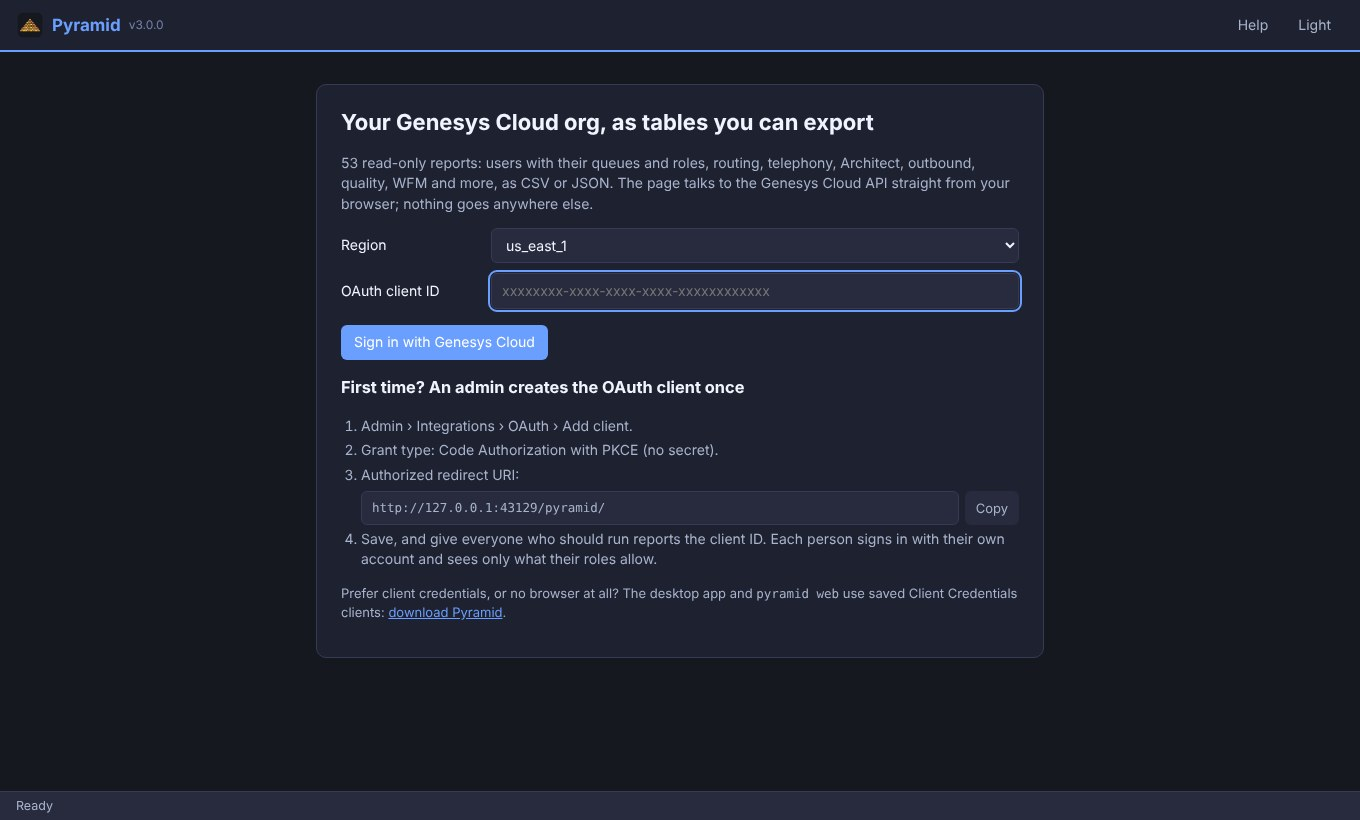
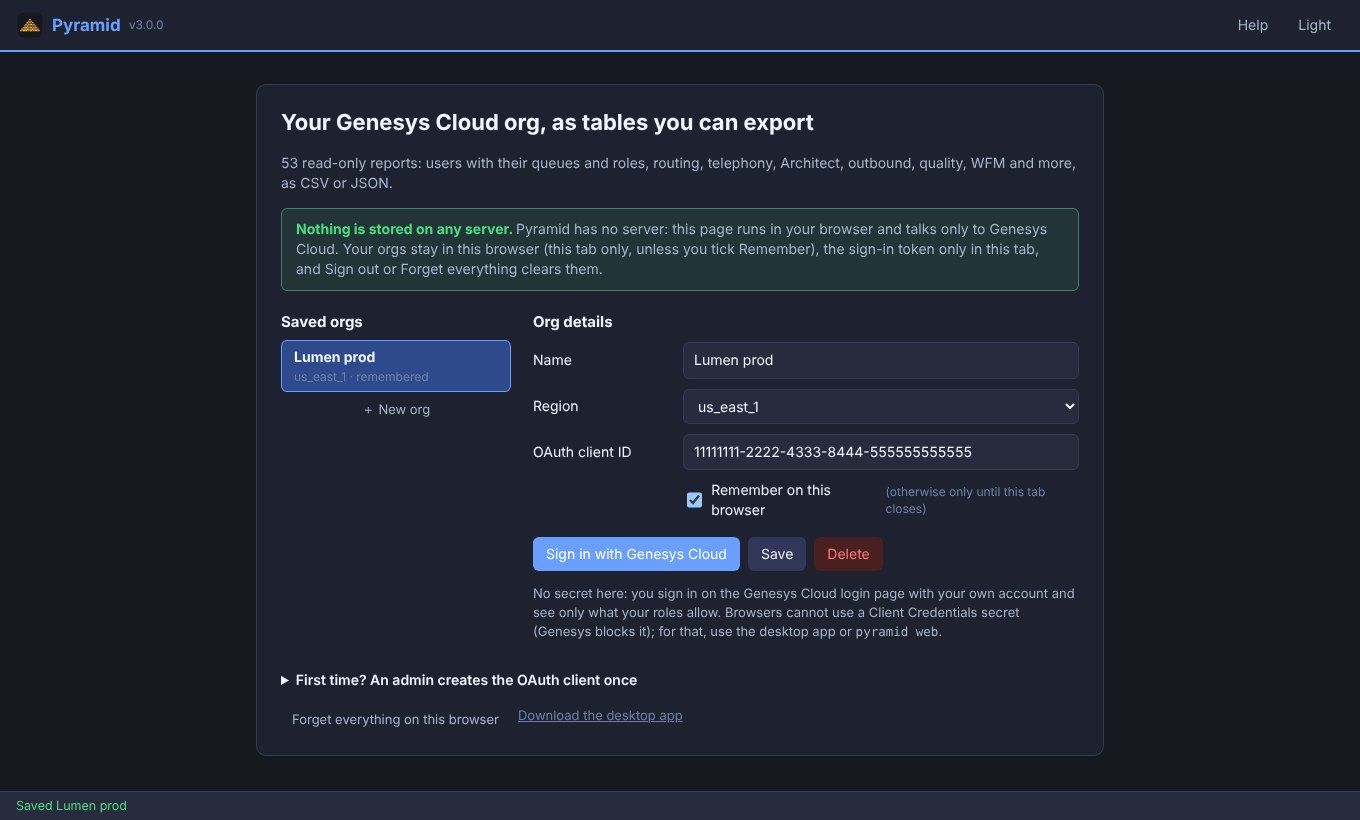
Web: saved orgs like the desktop OAuth tab, nothing stored on any server
The hosted page now keeps a list of orgs (name, region, client ID) as the
desktop app does. They live in the tab's sessionStorage, or in
localStorage only when "Remember on this browser" is ticked; the token
stays in the tab. A notice says nothing is stored on any server, and
"Forget everything on this browser" clears it all. Form errors no longer
reset what was typed. The earlier silent localStorage of region and client
ID is dropped. Sign-in stays OAuth PKCE: browsers cannot use a Client
Credentials secret (the Genesys SDK refuses it there and the token endpoint
does not allow it); the desktop app and pyramid web cover that case.

Claude-Session: https://claude.ai/code/session_01LcmSuwQ1xCxLAacR35Fjvh

Changed region(s): [[0.1853, 0.122, 0.8029, 0.7927], [0.2162, 0.8232, 0.4941, 0.8841], [0.0, 0.9756, 0.0926, 1.0]]

diff --git a/src/pyramid/web/app.js b/src/pyramid/web/app.js
@@ -100,7 +100,7 @@ async function init() {
   if (!pageIsLocal) store.set("sessionStorage", "devBase", null);
   if (q.has("code") || q.has("error")) return finishPkce(q);
   const tok = token();
-  if (tok) return connectHosted(tok.region);
+  if (tok) return connectHosted(tok.region, tok.name);
   showConnectHosted();
 }
 
@@ -116,50 +116,150 @@ function token() {
   } catch { return null; }
 }
 
-// ── hosted sign-in (PKCE) ─────────────────────────────────────────────────
-function showConnectHosted(error) {
-  const region = store.get("localStorage", "region") || "us_east_1";
-  const clientId = store.get("localStorage", "clientId") || "";
-  const sel = h("select", { id: "f-region" }, Object.keys(API_HOSTS).map((r) => h("option", { value: r, selected: r === region }, r)));
-  const cid = h("input", { id: "f-client", value: clientId, placeholder: "xxxxxxxx-xxxx-xxxx-xxxx-xxxxxxxxxxxx", autocomplete: "off", spellcheck: "false" });
+// ── hosted sign-in: saved orgs (like the desktop OAuth tab) + PKCE ────────
+// Nothing leaves this browser except the sign-in itself, which goes to Genesys.
+// Orgs (name, region, client ID) live in sessionStorage, or in localStorage
+// when "Remember on this browser" is ticked; the token only in sessionStorage.
+const ORGS = "orgs";
+
+function readOrgs(area) {
+  try { return JSON.parse(store.get(area, ORGS) || "[]").filter((o) => o && o.name && o.region && o.clientId); }
+  catch { return []; }
+}
+
+function loadOrgs() {
+  const byName = new Map();
+  for (const o of readOrgs("localStorage")) byName.set(o.name, { ...o, remember: true });
+  for (const o of readOrgs("sessionStorage")) byName.set(o.name, { ...o, remember: false });
+  return [...byName.values()].sort((a, b) => a.name.toLowerCase().localeCompare(b.name.toLowerCase()));
+}
+
+function saveOrgs(orgs) {
+  const pick = (list) => list.map(({ name, region, clientId }) => ({ name, region, clientId }));
+  const local = pick(orgs.filter((o) => o.remember)), session = pick(orgs.filter((o) => !o.remember));
+  store.set("localStorage", ORGS, local.length ? JSON.stringify(local) : null);
+  store.set("sessionStorage", ORGS, session.length ? JSON.stringify(session) : null);
+}
+
+function forgetEverything() {
+  for (const area of ["localStorage", "sessionStorage"]) {
+    try {
+      const keys = [];
+      for (let i = 0; i < window[area].length; i++) if (window[area].key(i).startsWith("pyramid.")) keys.push(window[area].key(i));
+      keys.forEach((k) => window[area].removeItem(k));
+    } catch { /* storage blocked: nothing to forget */ }
+  }
+  applyTheme(null);
+}
+
+function showConnectHosted(error, selectName) {
+  // an earlier version kept the last region and client ID silently: drop them
+  store.set("localStorage", "region", null);
+  store.set("localStorage", "clientId", null);
+  const orgs = loadOrgs();
+  let current = orgs.find((o) => o.name === selectName) || orgs[0] || null;
+
+  const name = h("input", { id: "f-name", placeholder: "e.g. Prod, Lab, Customer X", autocomplete: "off", maxlength: "60" });
+  const sel = h("select", { id: "f-region" }, Object.keys(API_HOSTS).map((r) => h("option", { value: r }, r)));
+  const cid = h("input", { id: "f-client", placeholder: "xxxxxxxx-xxxx-xxxx-xxxx-xxxxxxxxxxxx", autocomplete: "off", spellcheck: "false" });
+  const remember = h("input", { id: "f-remember", type: "checkbox" });
+  const del = h("button", { class: "danger", type: "button" }, "Delete");
+  const list = h("div", { class: "orglist", role: "listbox", "aria-label": "Saved orgs" });
+  const formError = h("div", { class: "error", hidden: true, role: "alert" });
+
+  function fill(o) {
+    current = o;
+    name.value = o?.name || "";
+    sel.value = o?.region || "us_east_1";
+    cid.value = o?.clientId || "";
+    remember.checked = !!o?.remember;
+    del.hidden = !o;
+    for (const b of list.querySelectorAll("button[data-name]")) b.classList.toggle("active", b.dataset.name === o?.name);
+  }
+  function renderList() {
+    const items = loadOrgs().map((o) => h("button", { type: "button", "data-name": o.name, role: "option", onclick: () => fill(o) },
+      h("b", {}, o.name), h("small", {}, `${o.region}${o.remember ? "  ·  remembered" : "  ·  this tab only"}`)));
+    list.replaceChildren(...(items.length ? items : [h("p", { class: "note" }, "No saved orgs yet.")]),
+      h("button", { type: "button", class: "ghost small", onclick: () => { fill(null); name.focus(); } }, "＋ New org"));
+  }
+  function formOrg() {
+    const o = { name: name.value.trim(), region: sel.value, clientId: cid.value.trim(), remember: remember.checked };
+    const problem = !o.name ? "Give the org a name (any label you like)."
+      : !/^[0-9a-f]{8}-[0-9a-f]{4}-[0-9a-f]{4}-[0-9a-f]{4}-[0-9a-f]{12}$/i.test(o.clientId)
+        ? "The client ID should look like xxxxxxxx-xxxx-xxxx-xxxx-xxxxxxxxxxxx." : "";
+    formError.textContent = problem;
+    formError.hidden = !problem;
+    return problem ? null : o;
+  }
+  function save(o) {
+    const all = loadOrgs().filter((x) => x.name !== o.name && x.name !== current?.name);
+    all.push(o);
+    saveOrgs(all);
+  }
+  const go = h("button", { class: "accent", type: "button", onclick: () => { const o = formOrg(); if (o) { save(o); startPkce(o); } } }, "Sign in with Genesys Cloud");
+  const keep = h("button", { type: "button", onclick: () => { const o = formOrg(); if (o) { save(o); renderList(); fill(o); status(`Saved ${o.name}`, "ok"); } } }, "Save");
+  del.onclick = () => {
+    if (!current || !confirm(`Remove ${current.name} from this browser?`)) return;
+    saveOrgs(loadOrgs().filter((x) => x.name !== current.name));
+    renderList();
+    fill(loadOrgs()[0] || null);
+  };
+  const forget = h("button", { type: "button", class: "ghost small", onclick: () => {
+    if (!confirm("Remove every org, setting and token Pyramid keeps in this browser?")) return;
+    forgetEverything();
+    showConnectHosted();
+    status("Everything Pyramid kept in this browser was removed", "ok");
+  } }, "Forget everything on this browser");
+  for (const el of [name, cid]) el.addEventListener("keydown", (e) => { if (e.key === "Enter") go.click(); });
+
   const redirect = h("input", { value: redirectUri(), readonly: true });
   const copy = h("button", { type: "button", class: "small", onclick: () => navigator.clipboard?.writeText(redirect.value).then(() => status("Redirect URI copied", "ok")) }, "Copy");
-  const go = h("button", { class: "accent", type: "button", onclick: () => startPkce(sel.value, cid.value.trim()) }, "Sign in with Genesys Cloud");
-  cid.addEventListener("keydown", (e) => { if (e.key === "Enter") go.click(); });
   const box = $("connect");
   box.replaceChildren(h("div", { class: "card" },
     h("h1", {}, "Your Genesys Cloud org, as tables you can export"),
-    h("p", {}, `${S.catalog.endpoints.length} read-only reports: users with their queues and roles, routing, telephony, Architect, outbound, quality, WFM and more, as CSV or JSON. The page talks to the Genesys Cloud API straight from your browser; nothing goes anywhere else.`),
-    h("div", { class: "form-row" }, h("label", { for: "f-region" }, "Region"), sel),
-    h("div", { class: "form-row" }, h("label", { for: "f-client" }, "OAuth client ID"), cid),
-    h("div", { class: "form-actions" }, go),
+    h("p", {}, `${S.catalog.endpoints.length} read-only reports: users with their queues and roles, routing, telephony, Architect, outbound, quality, WFM and more, as CSV or JSON.`),
+    h("div", { class: "privacy" },
+      h("b", {}, "Nothing is stored on any server. "),
+      "Pyramid has no server: this page runs in your browser and talks only to Genesys Cloud. Your orgs stay in this browser (this tab only, unless you tick Remember), the sign-in token only in this tab, and Sign out or Forget everything clears them."),
     error ? h("div", { class: "error" }, error) : null,
-    h("h3", {}, "First time? An admin creates the OAuth client once"),
-    h("ol", { class: "steps" },
-      h("li", {}, "Admin › Integrations › OAuth › Add client."),
-      h("li", {}, "Grant type: Code Authorization with PKCE (no secret)."),
-      h("li", {}, "Authorized redirect URI:", h("div", { class: "copy-field" }, redirect, copy)),
-      h("li", {}, "Save, and give everyone who should run reports the client ID. Each person signs in with their own account and sees only what their roles allow.")),
-    h("p", { class: "note" }, "Prefer client credentials, or no browser at all? The desktop app and ", h("code", {}, "pyramid web"),
-      " use saved Client Credentials clients: ", h("a", { href: "https://github.com/igtoth/pyramid/releases/latest" }, "download Pyramid"), "."),
+    h("div", { class: "connect-grid" },
+      h("div", {}, h("h3", {}, "Saved orgs"), list),
+      h("div", {},
+        h("h3", {}, "Org details"),
+        h("div", { class: "form-row" }, h("label", { for: "f-name" }, "Name"), name),
+        h("div", { class: "form-row" }, h("label", { for: "f-region" }, "Region"), sel),
+        h("div", { class: "form-row" }, h("label", { for: "f-client" }, "OAuth client ID"), cid),
+        h("div", { class: "form-row" }, h("span", {}),
+          h("label", { class: "check" }, remember, " Remember on this browser ", h("small", {}, "(otherwise only until this tab closes)"))),
+        formError,
+        h("div", { class: "form-actions" }, go, keep, del),
+        h("p", { class: "note" }, "No secret here: you sign in on the Genesys Cloud login page with your own account and see only what your roles allow. Browsers cannot use a Client Credentials secret (Genesys blocks it); for that, use the desktop app or ", h("code", {}, "pyramid web"), "."))),
+    h("details", { class: "admin" },
+      h("summary", {}, "First time? An admin creates the OAuth client once"),
+      h("ol", { class: "steps" },
+        h("li", {}, "Admin › Integrations › OAuth › Add client."),
+        h("li", {}, "Grant type: Code Authorization with PKCE (no secret)."),
+        h("li", {}, "Authorized redirect URI:", h("div", { class: "copy-field" }, redirect, copy)),
+        h("li", {}, "Save, and share the client ID with the people who should run reports."))),
+    h("div", { class: "form-actions" }, forget,
+      h("a", { class: "note", href: "https://github.com/igtoth/pyramid/releases/latest" }, "Download the desktop app")),
   ));
+  renderList();
+  fill(current);
   box.hidden = false;
   $("workspace").hidden = true;
-  cid.focus();
+  (current ? cid : name).focus();
 }
 
-async function startPkce(region, clientId) {
-  if (!/^[0-9a-f-]{36}$/i.test(clientId)) return showConnectHosted("The client ID should look like xxxxxxxx-xxxx-xxxx-xxxx-xxxxxxxxxxxx.");
-  store.set("localStorage", "region", region);
-  store.set("localStorage", "clientId", clientId);
+async function startPkce(org) {
   const verifier = pkceVerifier(64);
   const state = pkceVerifier(16);
-  store.set("sessionStorage", "pkce", JSON.stringify({ verifier, state, region, clientId }));
+  store.set("sessionStorage", "pkce", JSON.stringify({ verifier, state, region: org.region, clientId: org.clientId, name: org.name }));
   const q = new URLSearchParams({
-    client_id: clientId, redirect_uri: redirectUri(), response_type: "code",
+    client_id: org.clientId, redirect_uri: redirectUri(), response_type: "code",
     code_challenge: await pkceChallenge(verifier), code_challenge_method: "S256", state,
   });
-  location.assign(`${loginBase(region)}/oauth/authorize?${q}`);
+  location.assign(`${loginBase(org.region)}/oauth/authorize?${q}`);
 }
 
 async function finishPkce(q) {
@@ -167,8 +267,8 @@ async function finishPkce(q) {
   let pk = null;
   try { pk = JSON.parse(store.get("sessionStorage", "pkce") || "null"); } catch { /* ignore */ }
   store.set("sessionStorage", "pkce", null);
-  if (q.get("error")) return showConnectHosted(`Sign-in failed: ${q.get("error_description") || q.get("error")}`);
-  if (!pk || pk.state !== q.get("state")) return showConnectHosted("Sign-in could not be verified (state mismatch). Try again.");
+  if (q.get("error")) return showConnectHosted(`Sign-in failed: ${q.get("error_description") || q.get("error")}`, pk?.name);
+  if (!pk || pk.state !== q.get("state")) return showConnectHosted("Sign-in could not be verified (state mismatch). Try again.", pk?.name);
   status("Signing in...", "busy");
   try {
     const resp = await fetch(`${loginBase(pk.region)}/oauth/token`, {
@@ -178,16 +278,17 @@ async function finishPkce(q) {
     });
     const body = await resp.json().catch(() => ({}));
     if (!resp.ok || !body.access_token) throw new Error(body.error_description || body.error || `HTTP ${resp.status}`);
-    store.set("sessionStorage", "token", JSON.stringify({ accessToken: body.access_token, region: pk.region,
+    store.set("sessionStorage", "token", JSON.stringify({ accessToken: body.access_token, region: pk.region, name: pk.name,
       expiresAt: Date.now() + (body.expires_in || 3600) * 1000 }));
-    connectHosted(pk.region);
+    connectHosted(pk.region, pk.name);
   } catch (e) {
-    showConnectHosted(`Sign-in failed: ${e.message}. Check that the OAuth client uses the PKCE grant and that the redirect URI matches exactly.`);
+    showConnectHosted(`Sign-in failed: ${e.message}. Check that the OAuth client uses the PKCE grant and that the redirect URI matches exactly.`, pk.name);
   }
 }
 
-function connectHosted(region) {
+function connectHosted(region, name = "") {
   S.region = region;
+  S.clientName = name || "";
   S.api = new Api({
     base: apiHost(region),
     headers: () => ({ Authorization: "Bearer " + (token()?.accessToken || "") }),
@@ -204,7 +305,7 @@ function signOut() {
   closeAllTabs(false);
   $("org").hidden = true;
   $("btn-signout").hidden = true;
-  showConnectHosted();
+  showConnectHosted(null, S.clientName);
 }
 
 // ── local mode (pyramid web) ──────────────────────────────────────────────
@@ -254,7 +355,7 @@ async function openWorkspace() {
     S.orgName = S.clientName || "";
   }
   const org = $("org");
-  org.textContent = `● ${S.orgName}${S.mode === "local" ? `  ·  ${S.clientName}` : ""}  ·  ${S.region}`;
+  org.textContent = `● ${S.orgName}${S.clientName && S.clientName !== S.orgName ? `  ·  ${S.clientName}` : ""}  ·  ${S.region}`;
   org.hidden = false;
   select(null);
 }

diff --git a/src/pyramid/web/app.css b/src/pyramid/web/app.css
@@ -67,6 +67,21 @@ code, .mono { font-family: var(--mono); font-size: 12.5px; }
 .copy-field input { flex: 1; font-family: var(--mono); font-size: 12.5px; }
 .error { color: var(--danger); background: var(--danger-bg); border-radius: var(--radius); padding: 8px 12px; margin-top: 12px; }
 
+.privacy { background: color-mix(in srgb, var(--success) 10%, var(--surface)); border: 1px solid color-mix(in srgb, var(--success) 45%, var(--border));
+           border-radius: var(--radius); padding: 10px 14px; color: var(--fg2); margin: 12px 0 4px; }
+.privacy b { color: var(--success); }
+.connect-grid { display: grid; grid-template-columns: 230px 1fr; gap: 22px; margin-top: 8px; }
+.connect-grid h3 { margin: 12px 0 8px; font-size: 15px; }
+.orglist { display: flex; flex-direction: column; gap: 4px; }
+.orglist button[data-name] { text-align: left; display: flex; flex-direction: column; background: var(--raised); border: 1px solid var(--border); }
+.orglist button[data-name].active { border-color: var(--accent); background: var(--accent-dim); }
+.orglist small, .check small { color: var(--muted); font-size: 12px; }
+.check { display: flex; align-items: center; gap: 6px; cursor: pointer; }
+.check input { width: 16px; height: 16px; }
+details.admin { margin-top: 16px; color: var(--fg2); }
+details.admin summary { cursor: pointer; font-weight: 600; color: var(--fg); }
+.connect { max-width: 880px; }
+
 /* sub-tabs */
 .subtabs { display: flex; gap: 3px; padding: 6px 10px 0; overflow-x: auto; border-bottom: 2px solid var(--accent); background: var(--bg); flex-shrink: 0; }
 .tab { display: flex; align-items: center; gap: 2px; background: var(--raised); color: var(--fg2); border: 1px solid var(--border); border-bottom: none;
@@ -131,6 +146,7 @@ dialog::backdrop { background: rgb(0 0 0 / .45); }
   .topbar { gap: 8px; padding: 8px 12px; }
   .org { display: none; }
   .form-row { grid-template-columns: 1fr; gap: 4px; }
+  .connect-grid { grid-template-columns: 1fr; gap: 8px; }
   .rhead .actions { margin-left: 0; }
   .searchbar .hint { display: none; }
   .tablewrap { margin: 0 8px 8px; }

diff --git a/scripts/web_check.py b/scripts/web_check.py
@@ -132,10 +132,19 @@ with sync_playwright() as p:
     watch(page)
     page.goto(site_url + f"?api={fake_url}")
     expect(page.locator("#connect h1")).to_be_visible()
-    page.screenshot(path=str(OUT / "pyramid-web-signin-dark.jpg"), quality=88)
+    expect(page.locator(".privacy")).to_contain_text("Nothing is stored on any server")
+    page.fill("#f-name", "Lumen prod")
+    page.fill("#f-client", "not-an-id")
+    page.get_by_role("button", name="Sign in with Genesys Cloud").click()
+    expect(page.locator("[role=alert]")).to_contain_text("client ID should look like")
+    assert page.input_value("#f-name") == "Lumen prod"  # what was typed survives the error
     page.fill("#f-client", fg.CLIENT_ID)
     page.get_by_role("button", name="Sign in with Genesys Cloud").click()
     expect(page.locator("#org")).to_contain_text("Lumen Harbor Telecom", timeout=15000)
+    expect(page.locator("#org")).to_contain_text("Lumen prod")
+    # not remembered: the org lives in this tab's sessionStorage only
+    assert page.evaluate("localStorage.getItem('pyramid.orgs')") is None
+    assert "Lumen prod" in page.evaluate("sessionStorage.getItem('pyramid.orgs')")
     open_report(page, "IVR Configurations")
     open_report_tab = page.locator(".subtabs .tab", has_text="Reports")
     open_report_tab.click()
@@ -147,7 +156,18 @@ with sync_playwright() as p:
     page.set_viewport_size({"width": 390, "height": 800})
     wide = page.evaluate("document.documentElement.scrollWidth > window.innerWidth + 1")
     assert not wide, "page scrolls sideways at phone width"
-    print("hosted mode: PKCE sign-in and reports OK", flush=True)
+    # sign out: the saved org is offered again; remember it; forget everything
+    page.set_viewport_size({"width": 1360, "height": 820})
+    page.locator("#btn-signout").click()
+    expect(page.locator(".orglist button[data-name]")).to_have_count(1)
+    page.check("#f-remember")
+    page.get_by_role("button", name="Save").click()
+    assert "Lumen prod" in page.evaluate("localStorage.getItem('pyramid.orgs')")
+    page.screenshot(path=str(OUT / "pyramid-web-signin-dark.jpg"), quality=88)
+    page.on("dialog", lambda d: d.accept())
+    page.get_by_role("button", name="Forget everything on this browser").click()
+    assert page.evaluate("Object.keys(localStorage).concat(Object.keys(sessionStorage)).filter(k => k.startsWith('pyramid.'))") == []
+    print("hosted mode: saved orgs, PKCE sign-in and reports OK", flush=True)
     ss.shutdown()
     browser.close()
 

diff --git a/docs/web.md b/docs/web.md
@@ -23,11 +23,24 @@ signs in to Genesys Cloud and calls the API itself.
 
 ### Sign in
 
-Open the page, pick the org's region, paste the client ID, **Sign in with
-Genesys Cloud**. The page sends you to the Genesys login, you come back
-signed in. The region and client ID are remembered in this browser
-(`localStorage`); the access token only lives in this tab's
-`sessionStorage` and is gone when you close it.
+Add your orgs the way the desktop app's OAuth tab does: a **name** (any label),
+the **region** and the PKCE **client ID**. Pick one and **Sign in with Genesys
+Cloud**: the page sends you to the Genesys login and you come back signed in.
+
+**Nothing is stored on any server.** Pyramid has no server; everything stays in
+your browser:
+
+| What | Where | Until |
+|---|---|---|
+| saved orgs (name, region, client ID) | `sessionStorage` of the tab | the tab closes |
+| ...with **Remember on this browser** ticked | `localStorage` | you delete the org or click Forget everything |
+| the access token | `sessionStorage` of the tab | the tab closes, Sign out, or it expires |
+
+**Forget everything on this browser** removes all of it at once. There is no
+secret to store: a browser cannot use a Client Credentials secret (the Genesys
+SDK refuses it in a browser and the token endpoint does not allow it), so the
+web version signs in with your own account; for Client Credentials use the
+desktop app or `pyramid web`.
 
 ### What leaves your browser
 

diff --git a/README.md b/README.md
@@ -224,9 +224,11 @@ Genesys Cloud API definition.
 3. Authorized redirect URI: `https://igtoth.github.io/pyramid/`
 4. Hand out the client ID. Everyone signs in with their own account and sees only what their own roles allow.
 
-The page is static: it runs in your browser and talks to the Genesys Cloud API
-directly. The token stays in that browser tab's session storage and goes
-nowhere else; there is no Pyramid server. Prefer to keep everything in your
+Add your orgs as in the desktop app (name, region, client ID) and sign in.
+**Nothing is stored on any server:** the page runs in your browser and talks
+only to Genesys Cloud. Your orgs stay in the tab's session, or in the browser
+when you tick *Remember*; the token only in the tab; *Forget everything*
+clears it all. Prefer to keep everything in your
 network? Serve the same files from your own host (the `web` job in
 [`build.yml`](.github/workflows/build.yml) shows the two folders it takes) and
 register that URL as the redirect URI.

diff --git a/PRIVACY.md b/PRIVACY.md
@@ -19,8 +19,8 @@ Cloud; its Content Security Policy blocks every other host.
 | Where | What |
 |---|---|
 | `pyramid.cfg` in your user profile (desktop app, command line, `pyramid web`) | saved OAuth clients (name, region, client ID, **secret in plain text**), proxy, theme, last client used. Readable only by you on macOS and Linux. |
-| the browser's `localStorage` (web version) | region, client ID, theme |
-| the browser tab's `sessionStorage` (web version) | the access token of your sign-in, until the tab closes |
+| the browser tab's `sessionStorage` (web version) | the orgs you added (name, region, client ID) and the access token, until the tab closes |
+| the browser's `localStorage` (web version) | only the orgs you ticked "Remember on this browser" for, and the theme; "Forget everything on this browser" removes them |
 | memory, while Pyramid runs | the reports you opened |
 | files you export | exactly what you exported |
 

diff --git a/docs/CHANGELOG.md b/docs/CHANGELOG.md
@@ -6,8 +6,10 @@ A rewrite around one catalog of reports, shared by a new desktop app, a web
 version and a command line.
 
 ### Added
-- **Web version** at https://igtoth.github.io/pyramid/: sign in with your
-  Genesys Cloud account (OAuth PKCE, no secret), same reports, same exports.
+- **Web version** at https://igtoth.github.io/pyramid/: saved orgs like the
+  desktop OAuth tab (kept in the tab's session, or in the browser when
+  remembered; nothing on any server), sign in with your Genesys Cloud
+  account (OAuth PKCE, no secret), same reports, same exports.
 - **`pyramid web`**: the web page on your computer with the clients saved in
   the desktop app; the secret stays in the Pyramid process.
 - **Command line**: `pyramid export <reports...> | all`, CSV and/or JSON,
